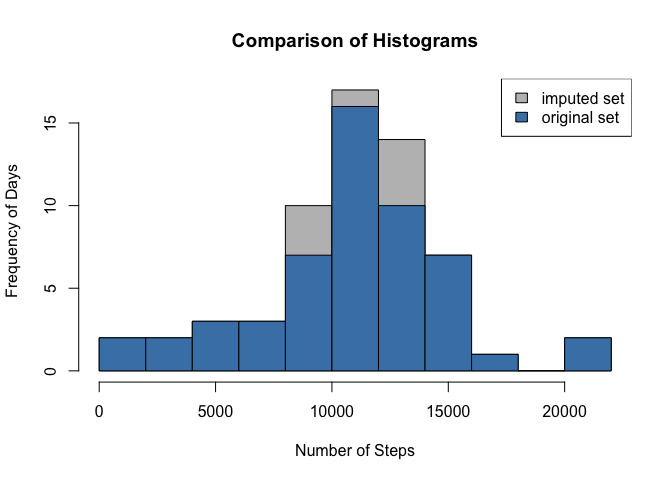
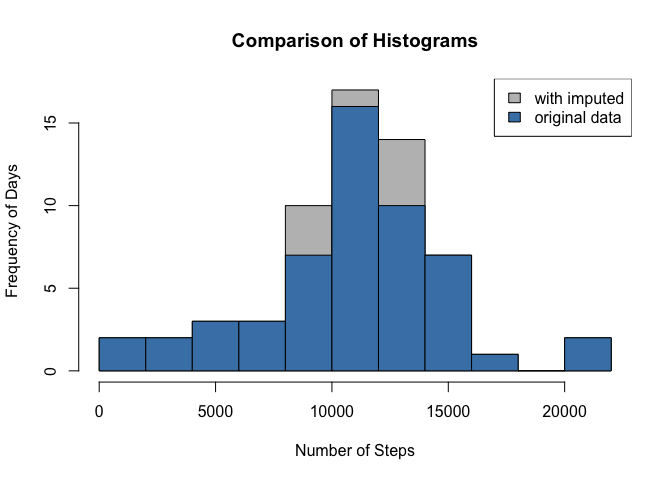
fix print of meancomparsion table

Changed region(s): [[0.7188, 0.1562, 0.9375, 0.2812]]

diff --git a/PA1_template.html b/PA1_template.html
@@ -209,13 +209,16 @@ sum(is.na(fullplus))      ## check that there are zero missing values</code></pr
   plot(h2, col=&quot;grey&quot;, main = &quot;Comparison of Histograms&quot;,
        xlab = &quot;Number of Steps&quot;, ylab = &quot;Frequency of Days&quot;)
   plot(h1, col=&quot;steelblue&quot;, add=T)
-  legend(&quot;topright&quot;, c(&quot;imputed set&quot;, &quot;original set&quot;), fill=c(&quot;grey&quot;,&quot;steelblue&quot;))</code></pre>
[1 lines of base64/hex data omitted]
+  legend(&quot;topright&quot;, c(&quot;with imputed&quot;, &quot;original data&quot;), fill=c(&quot;grey&quot;,&quot;steelblue&quot;))</code></pre>
[1 lines of base64/hex data omitted]
 <pre class="r"><code>  meanval    = rbind(meansteps,mean(dailysteps2))
   medianval  = rbind(medsteps,median(dailysteps2))
   meancomparsion = data.frame(meanval,medianval)
-  (row.names(meancomparsion) = c(&quot;original&quot;,&quot;imputed&quot;))</code></pre>
-<pre><code>## [1] &quot;original&quot; &quot;imputed&quot;</code></pre>
+  row.names(meancomparsion) = c(&quot;original data&quot;,&quot;with imputed&quot;)
+  meancomparsion</code></pre>
+<pre><code>##               meanval medianval
+## original data   10766     10765
+## with imputed    10821     11015</code></pre>
 </div>
 <div id="are-there-differences-in-activity-patterns-between-weekdays-and-weekends" class="section level2">
 <h2>Are there differences in activity patterns between weekdays and weekends?</h2>

diff --git a/PA1_template.md b/PA1_template.md
@@ -233,7 +233,7 @@ We run the same code as in question one, but on the data set that includes imput
   plot(h2, col="grey", main = "Comparison of Histograms",
        xlab = "Number of Steps", ylab = "Frequency of Days")
   plot(h1, col="steelblue", add=T)
-  legend("topright", c("imputed set", "original set"), fill=c("grey","steelblue"))
+  legend("topright", c("with imputed", "original data"), fill=c("grey","steelblue"))
 ```
 
 ![](./PA1_template_files/figure-html/unnamed-chunk-11-1.png) 
@@ -245,11 +245,14 @@ We run the same code as in question one, but on the data set that includes imput
   meanval    = rbind(meansteps,mean(dailysteps2))
   medianval  = rbind(medsteps,median(dailysteps2))
   meancomparsion = data.frame(meanval,medianval)
-  (row.names(meancomparsion) = c("original","imputed"))
+  row.names(meancomparsion) = c("original data","with imputed")
+  meancomparsion
 ```
 
 ```
-## [1] "original" "imputed"
+##               meanval medianval
+## original data   10766     10765
+## with imputed    10821     11015
 ```
 
 ## Are there differences in activity patterns between weekdays and weekends?
